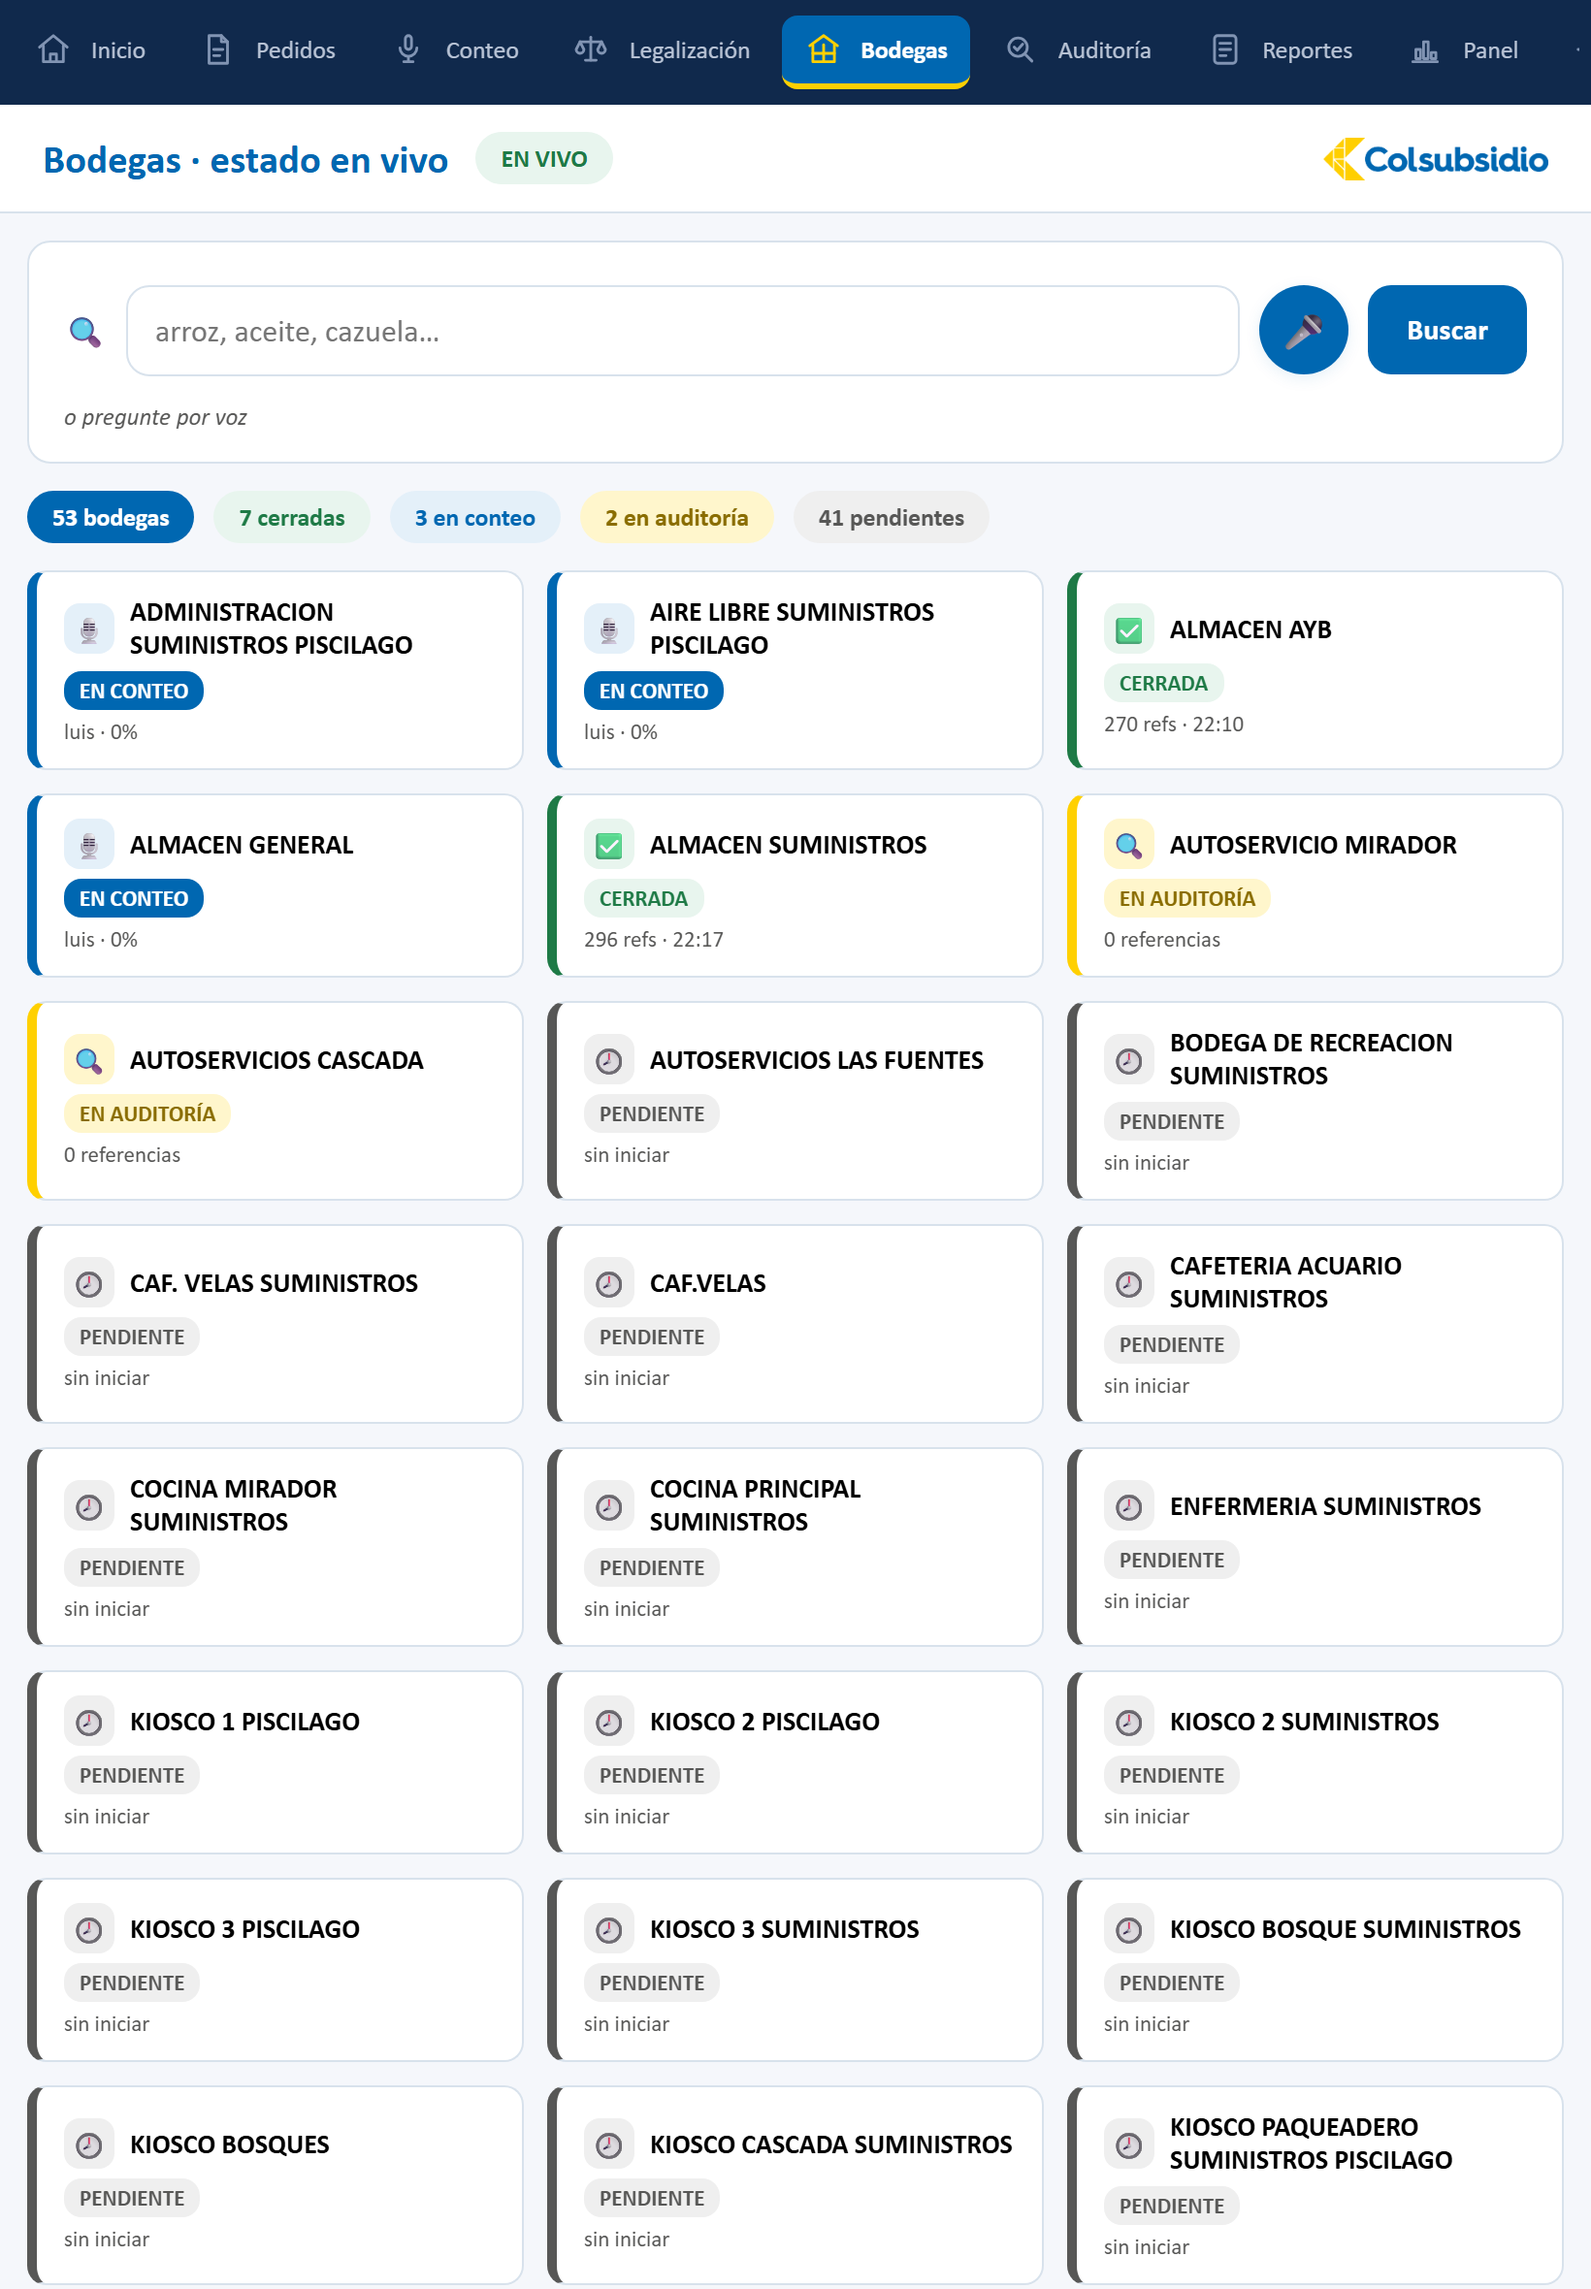
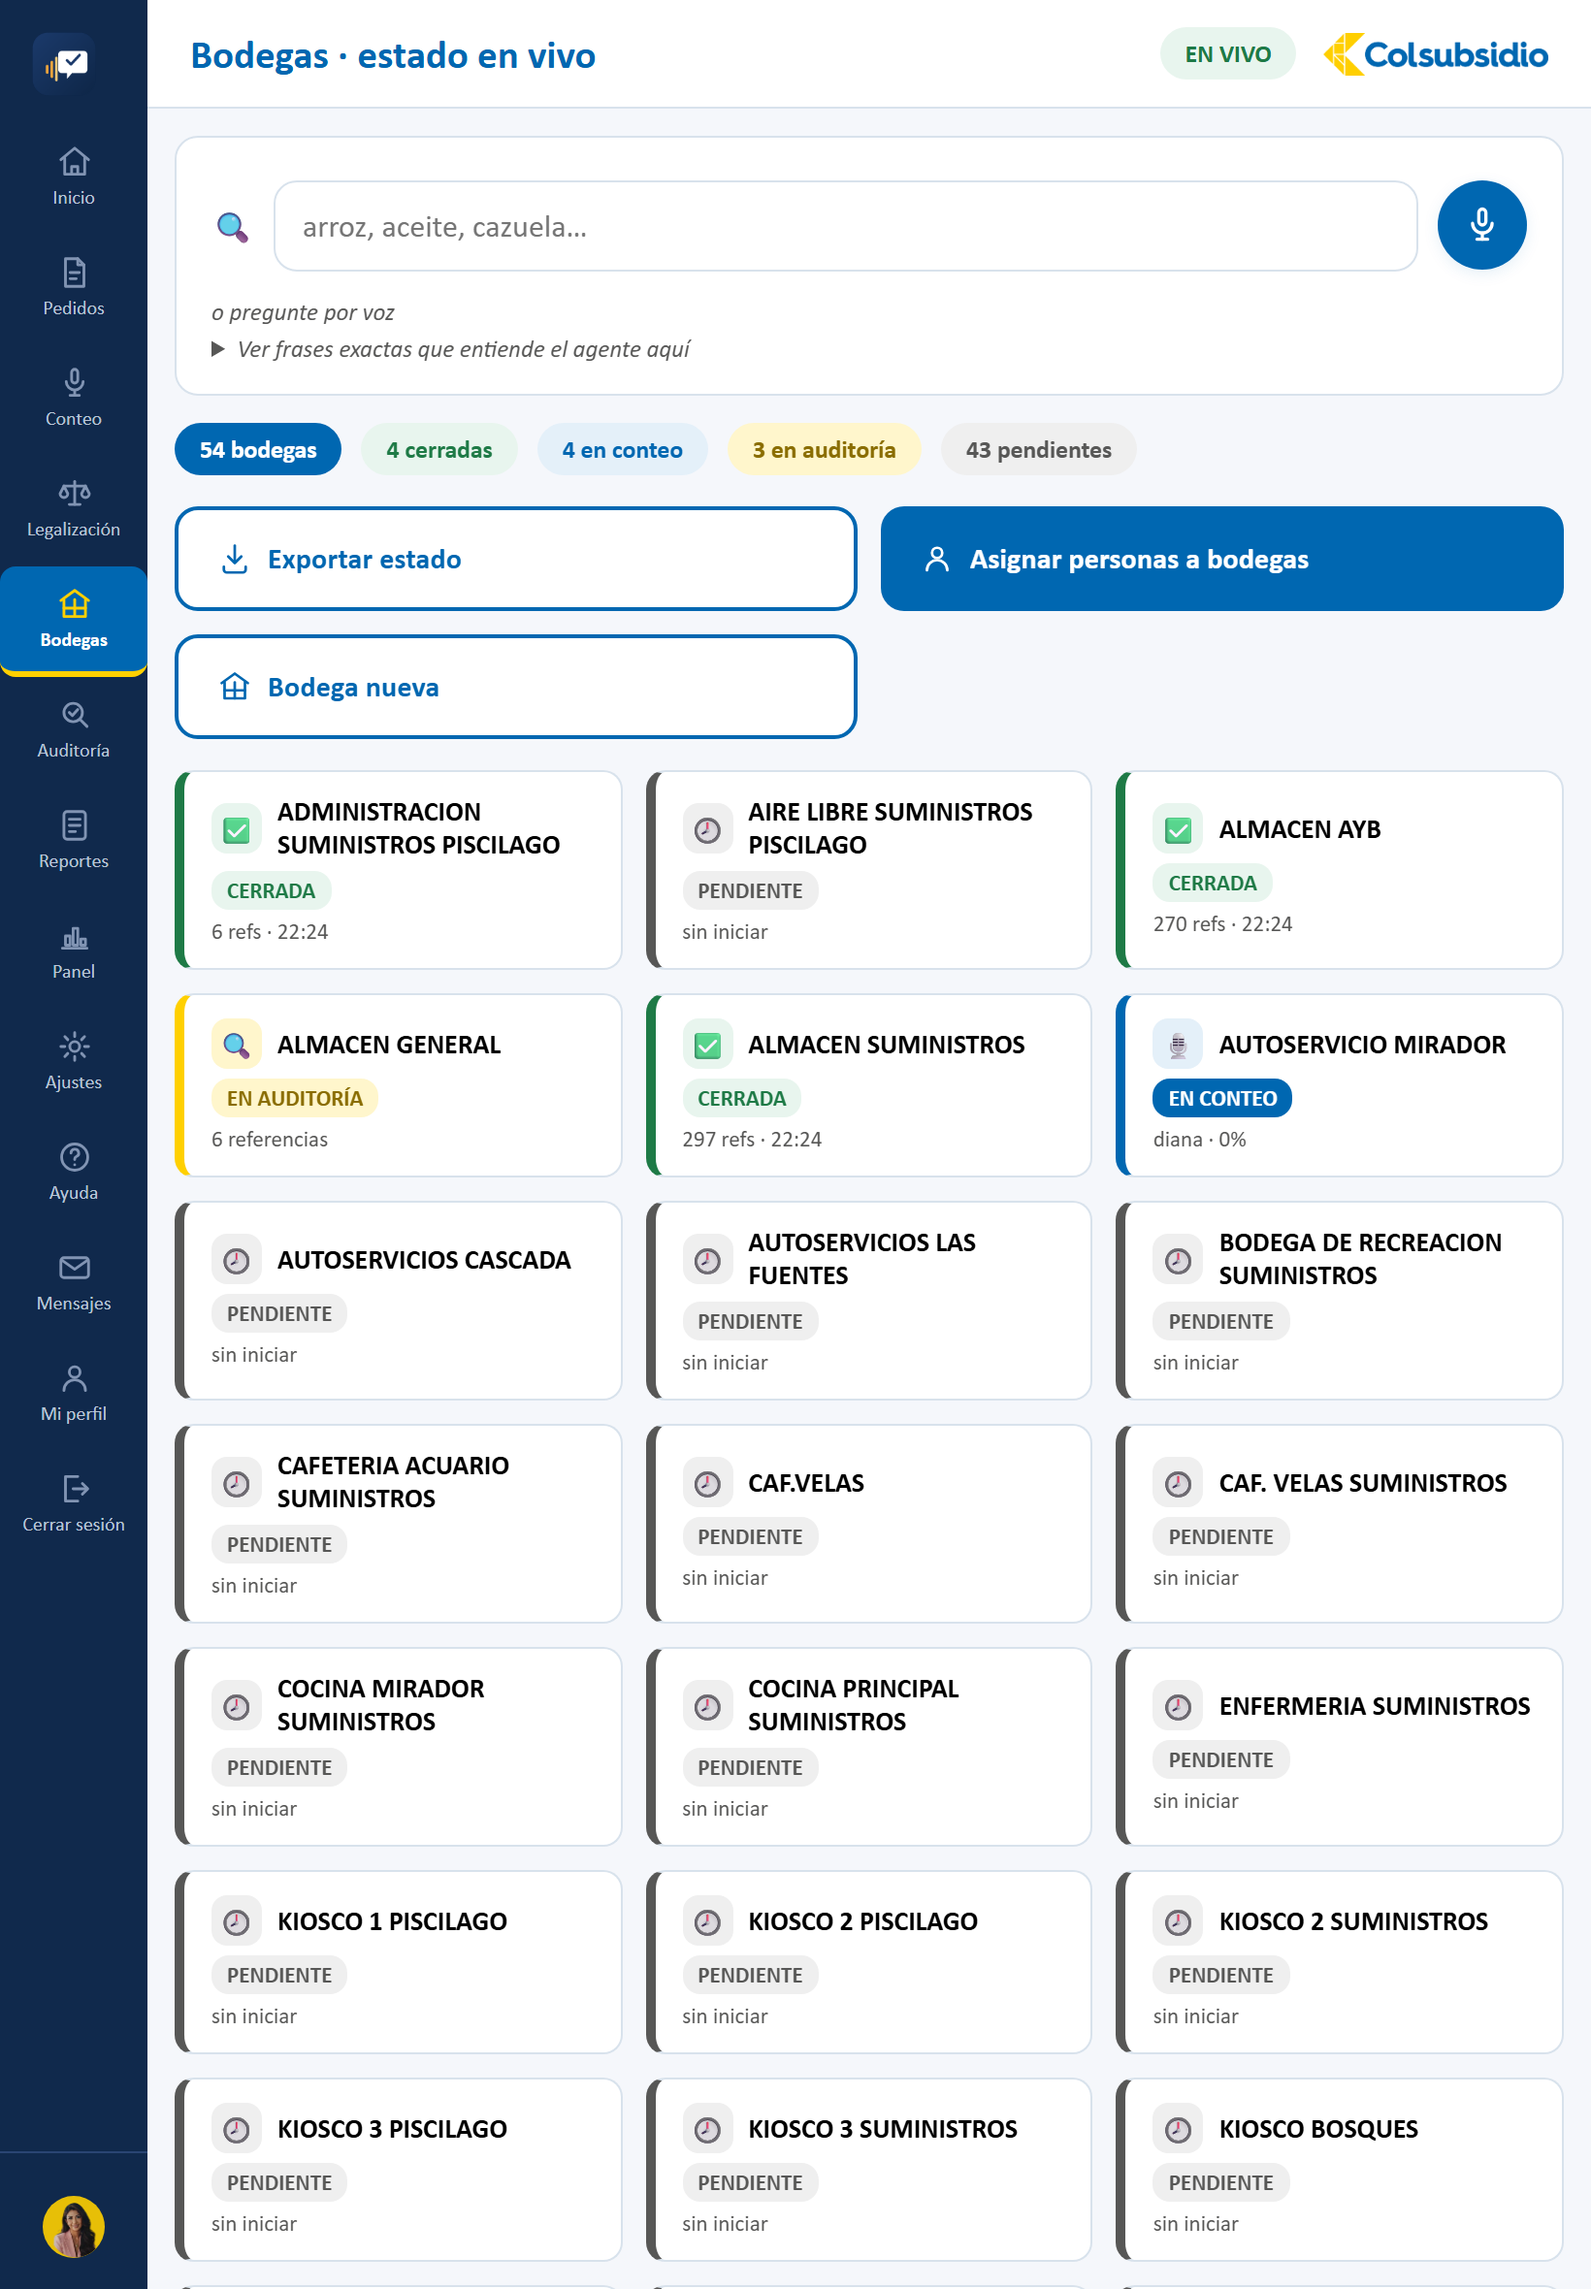
Actualiza las capturas del README con el diseño y datos actuales
Las capturas de docs/capturas/ (portada y las 12 de modo tablet) eran
del 11 de agosto, antes de todo el trabajo de esta sesión: iconos
nuevos en botones, vista de bodega cerrada en Auditoría, flujo de
descarga de reportes, tarjetas KPI variadas en Panel, legalización con
datos reales pendientes de confirmar, y el pase de accesibilidad
completo. Se recapturaron todas contra producción, en el ancho real de
tablet de la app (601-860px, el breakpoint definido en index.css), con
los datos reales construidos durante la sesión en vez de datos de
prueba viejos.

También corrige "53 bodegas" a "54 bodegas" en la sección de Datos
reales, que ya no coincidía con el total real en producción.

Changed region(s): [[0.0, 0.0, 1.0, 1.0]]

diff --git a/README.md b/README.md
@@ -134,7 +134,7 @@ en ese equipo.
 ## 📊 Datos reales
 
 El prototipo carga el extracto entregado por Colsubsidio:
-**53 bodegas · 1.041 artículos · 1.405 registros de stock · 79 saldos
+**54 bodegas · 1.041 artículos · 1.405 registros de stock · 79 saldos
 negativos detectados** (el mini reto).
 
 ---
